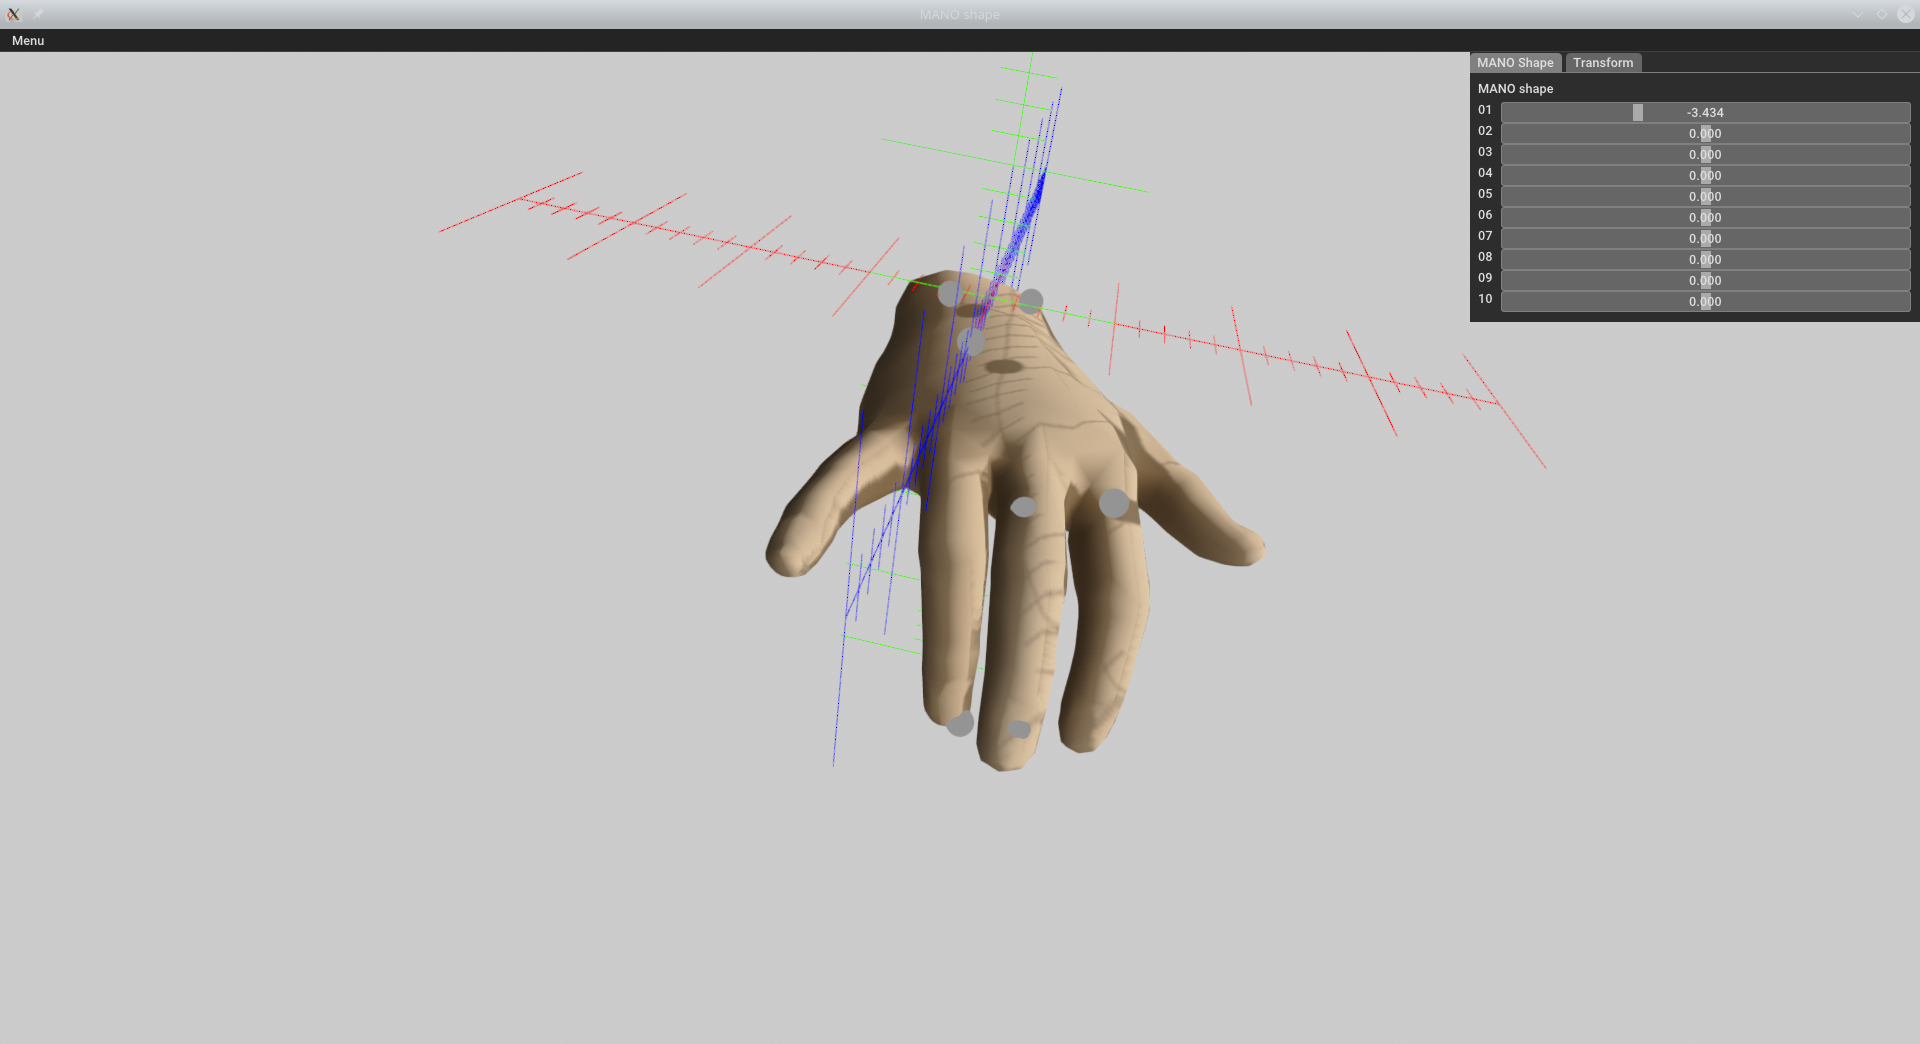
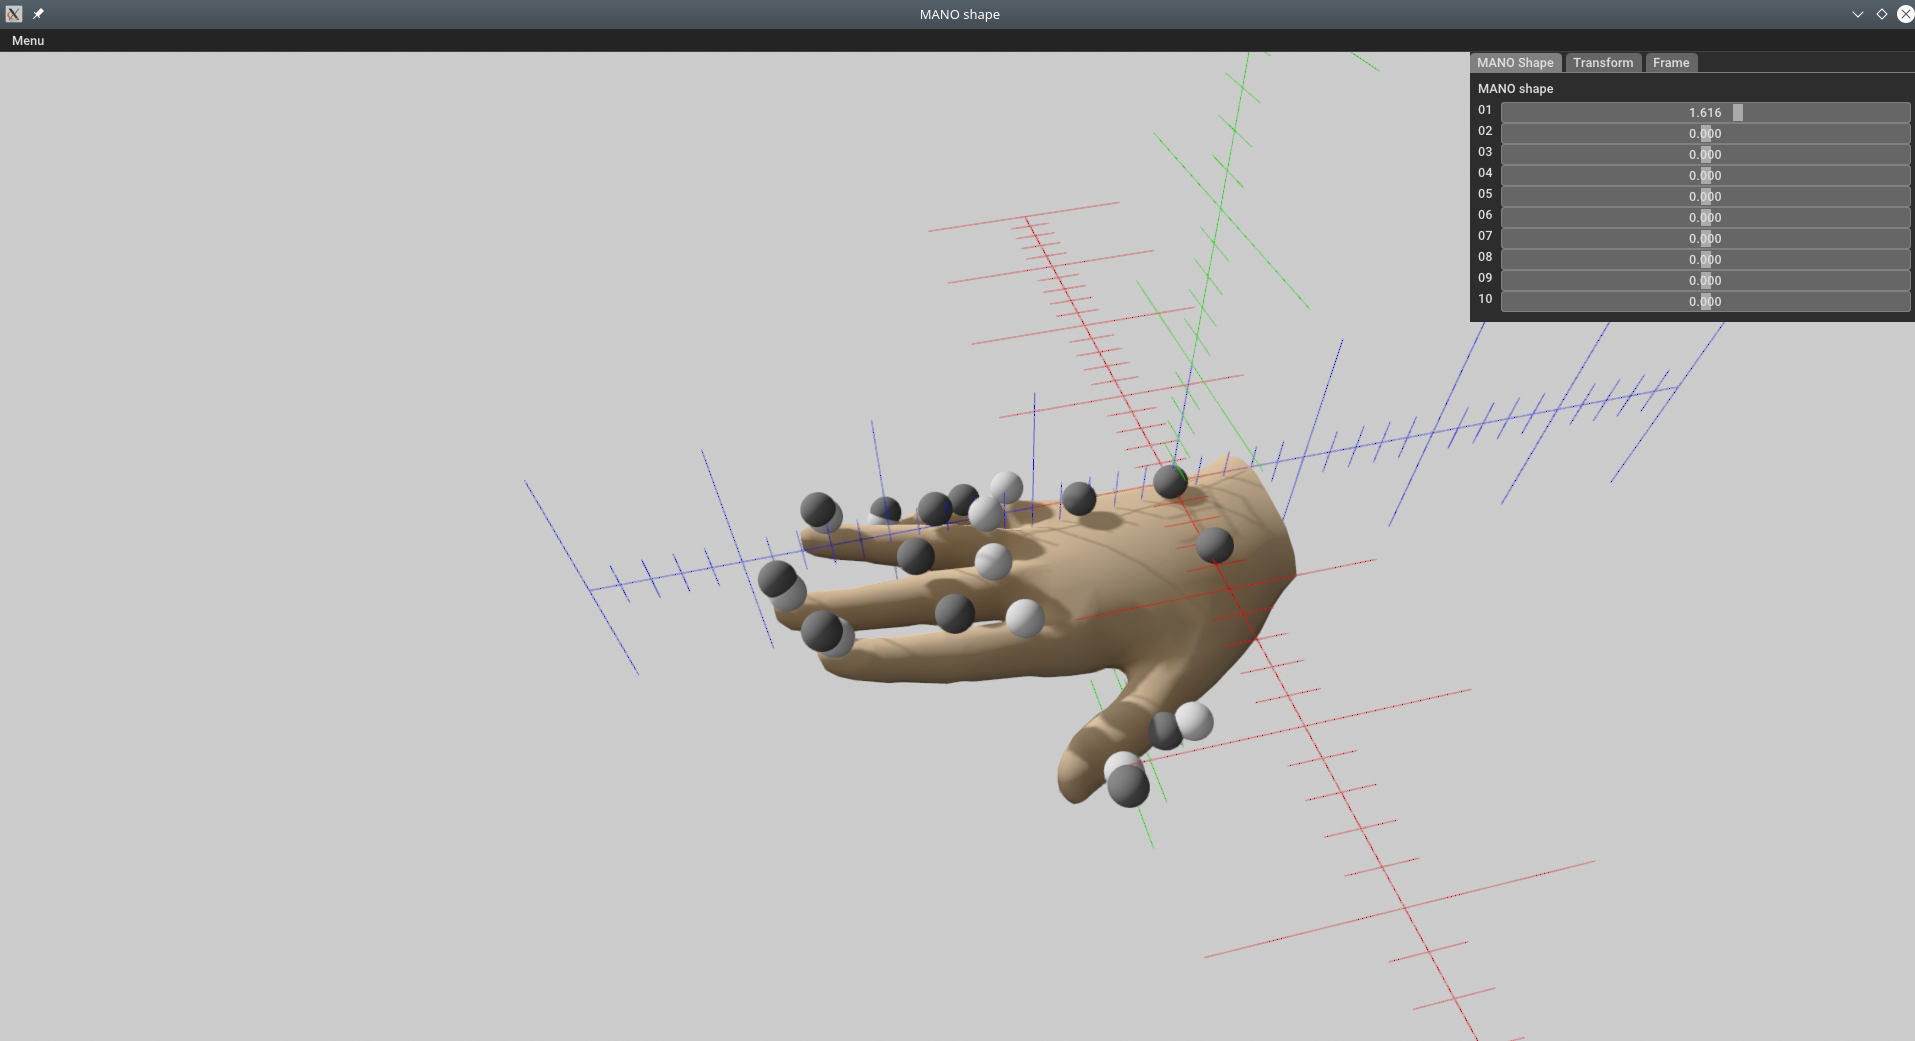
Update documentation

diff --git a/bin/gui_mano_shape.py b/bin/gui_mano_shape.py
@@ -1,10 +1,14 @@
 """Configure MANO shape parameters.
 
+White spheres represent expected markers on the MANO hand. Gray spheres are
+measured marker positions.
+
 Example call:
 
 python bin/gui_mano_shape.py examples/config/mano/20210610_april.yaml --mocap-filename data/20210610_april/Measurement2.tsv --mocap-config examples/config/markers/20210610_april.yaml --start-idx 3000 --fit-fingers
 python bin/gui_mano_shape.py examples/config/mano/20220718_april.yaml --mocap-filename data/20220718_april/OSAI_test1.txt --mocap-config examples/config/markers/20220718_april.yaml --fit-fingers
 """
+print(__doc__)
 import argparse
 import os
 from functools import partial
